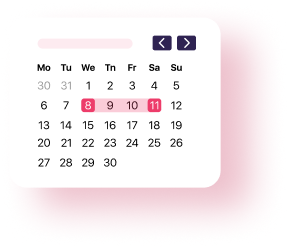
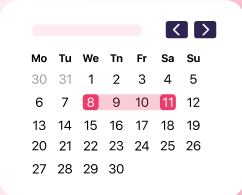
whychoos responsive

diff --git a/src/components/sections/WhyChooseUsSection.jsx b/src/components/sections/WhyChooseUsSection.jsx
@@ -9,10 +9,10 @@ export default function WhyChooseUsSection() {
   return (
     <section id="about" className="py-20 bg-white">
       <div className="max-w-[1240px] mx-auto px-6">
-        <div className="bg-[#FFF0F5] rounded-3xl pt-[66px] pb-[83px] pl-[89px] pr-[38px] flex flex-col md:flex-row items-center gap-3.5">
+        <div className="bg-[#FFF0F5] rounded-3xl pt-[66px] pb-[83px] pl-6 pr-6 md:pl-[89px] md:pr-[38px] flex flex-col md:flex-row items-center gap-3.5">
           {/* Left — Text */}
-          <div className="flex-1 max-w-[457px]">
-            <h2 className="text-3xl md:text-4xl font-bold text-black mb-[26px] whitespace-pre-line">
+          <div className="flex-1 w-full md:max-w-[457px]">
+            <h2 className="text-2xl sm:text-3xl md:text-4xl font-bold text-black mb-[26px] whitespace-pre-line">
               {heading}
             </h2>
 
@@ -38,30 +38,31 @@ export default function WhyChooseUsSection() {
             </Button>
           </div>
 
-          {/* Right — Mockup */}
-          <div className="flex-1 relative flex items-center justify-center max-w-[642px]">
+          {/* Right - Mockup */}
+          <div className="flex-1 relative flex items-center justify-center w-full md:max-w-[642px] mt-10 md:mt-0 h-[380px] sm:h-[420px] md:h-auto">
             {/* Pink blob */}
-            <div className="absolute top-1/2 left-1/2 -translate-x-1/2 -translate-y-1/2 w-[570px] h-[337px] bg-[#FAC4D2] rounded-[168.5px]" />
-            {/* choose1 — Listing card */}
-            <div className="absolute top-4 left-0 z-20 animate-float">
+            <div className="absolute top-[60%] left-1/2 -translate-x-1/2 -translate-y-1/2 w-[300px] h-[200px] sm:w-[420px] sm:h-[260px] md:w-[570px] md:h-[337px] bg-[#FAC4D2] rounded-[168.5px]" />
+
+            {/* choose1 - Listing card */}
+            <div className="absolute top-0 -left-4 sm:top-6 sm:-left-6 md:top-10 md:-left-10 z-20 animate-float">
               <AppImage
                 src="/images/Why_Chosse/choose1.png"
                 alt="Listing card"
-                width={254}
-                height={105}
-                style={{ width: "254px", height: "105px" }}
+                width={310}
+                height={130}
+                style={{ width: "clamp(180px, 45vw, 310px)", height: "auto" }}
                 className="object-cover"
               />
             </div>
 
             {/* choose2 — Brand icons */}
-            <div className="absolute top-0 right-10 z-20 animate-float-delay">
+            <div className="absolute top-0 right-0 sm:top-2 sm:right-4 md:top-3 md:right-7 z-20 animate-float-delay">
               <AppImage
                 src="/images/Why_Chosse/choose2.png"
                 alt="Platforms"
-                width={200}
+                width={220}
                 height={184}
-                style={{ width: "200px", height: "184px" }}
+                style={{ width: "clamp(130px, 30vw, 220px)", height: "auto" }}
                 className="object-cover"
               />
             </div>
@@ -72,18 +73,21 @@ export default function WhyChooseUsSection() {
               alt="Property Manager"
               width={327}
               height={437}
-              style={{ width: "327px", height: "437px" }}
-              className="relative z-100 object-top"
+              style={{
+                width: "clamp(180px, 40vw, 327px)",
+                height: "auto",
+              }}
+              className="relative -top-2 -left-5 z-40 object-contain"
             />
 
             {/* choose3 — Calendar */}
-            <div className="absolute -bottom-10 left-0 z-20 animate-float-delay-2">
+            <div className="absolute -bottom-10 -left-4 sm:-bottom-12 sm:-left-10 md:-bottom-16 md:-left-17 z-20 animate-float-delay-2">
               <AppImage
                 src="/images/Why_Chosse/choose3.png"
                 alt="Calendar"
-                width={211}
-                height={170}
-                style={{ width: "211px", height: "170px" }}
+                width={280}
+                height={200}
+                style={{ width: "clamp(160px, 38vw, 280px)", height: "auto" }}
                 className="object-cover"
               />
             </div>
